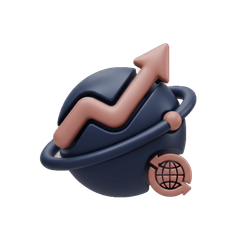
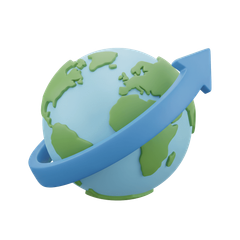
Switch style1 to vivid saturated colors, ban black, cap at 2 objects
Style 1's default color instruction said 'muted, sophisticated, avoid
bright/saturated' which directly contradicted style 2's vivid-color
rule and produced washed-out results (found via a user-supplied globe
reference that wanted bright sky-blue/green, not the dusty/muted tones
we were generating). Flipped the language to require vivid saturation
like style 2 already does, banned black/charcoal tones per explicit
request, and capped object count at 2 (primary + one accent) in both
style1 and style2 prompts. Regenerated and re-cached the stock library
asset with the corrected colors.

diff --git a/src/lib/image-style-patterns.ts b/src/lib/image-style-patterns.ts
@@ -28,9 +28,9 @@ function materialGlossy(): string {
 // brandColor가 없으면 기존의 톤 다운된 프리미엄 팔레트 지시를 그대로 쓴다.
 function colorInstruction(brandColor?: string): string {
   if (brandColor) {
-    return `The dominant body color must closely match the brand color ${brandColor}. Add 1-2 additional harmonious accent colors (a darker/lighter shade of ${brandColor}, or a neutral like soft charcoal or off-white) for secondary or functional parts — do not render the entire object in ${brandColor} alone, different parts must still be distinguishable by color. Keep transitions smooth and avoid harsh clashing.`;
+    return `The dominant body color must closely match the brand color ${brandColor}. Add 1-2 additional harmonious accent colors (a brighter/lighter shade of ${brandColor}, or a soft off-white) for secondary or functional parts — do not render the entire object in ${brandColor} alone, different parts must still be distinguishable by color. Colors must be highly saturated and vivid, never muted, dusty, or pastel. Never use black, near-black, or charcoal/graphite tones anywhere on the object. Keep transitions smooth and avoid harsh clashing.`;
   }
-  return `The color palette must combine 2-3 distinct, harmonious colors across the object's parts — a dominant refined color for the main body, and a clearly different accent color for secondary or functional parts (e.g. a dark neutral tone for wheels, joints, hardware, or mechanical details, a soft light tone for glass/window-like surfaces). Do not render the entire object in a single monochrome hue — different parts must be distinguishable by color, not only by shading. Use sophisticated, slightly muted, premium tones (e.g. soft navy, dusty teal, warm sand, muted rose, deep charcoal) — avoid bright, highly saturated, candy-like, or overly playful primary colors. Colors should feel modern and brand-appropriate for a fintech product, with smooth transitions and no harsh clashing.`;
+  return `The color palette must combine 2-3 distinct, harmonious colors across the object's parts — a dominant vivid color for the main body, and a clearly different accent color for secondary or functional parts (e.g. a bright complementary tone for wheels, joints, hardware, or mechanical details, a soft light tone for glass/window-like surfaces). Do not render the entire object in a single monochrome hue — different parts must be distinguishable by color, not only by shading. Colors must be highly saturated, bright, and vivid (e.g. bright sky blue, vivid green, bold coral, sunny yellow) — never muted, dusty, pastel, or desaturated, and never use black, near-black, or charcoal/graphite tones anywhere on the object. Colors should feel modern, bold, and brand-appropriate for a fintech product, with smooth transitions and no harsh clashing.`;
 }
 
 // 스타일 1: object별로 바뀌는 부분(Subject, Geometry)과 고정인 부분(Icon Style, Lighting,
@@ -38,7 +38,7 @@ function colorInstruction(brandColor?: string): string {
 // 명사("umbrella")뿐 아니라 수식어가 붙은 구("a broken car")도 그대로 들어갈 수 있다.
 function style1Basic3d(object: string, material: IconMaterial, brandColor?: string): string {
   const materialBlock = material === 'glossy' ? materialGlossy() : materialClay();
-  return `A premium 3D icon, presented as a single, unified 3D object that represents ${object}. This object abstracts the essence of its subject into a cohesive volumetric form.
+  return `A premium 3D icon, presented as a single, unified 3D object that represents ${object}. This object abstracts the essence of its subject into a cohesive volumetric form. Depict at most two objects total (a primary object plus at most one small secondary/accent object) — never combine three or more separate, distinct objects into the same icon.
 The icon style is a modern 3D icon, with cohesive volumetric 3D, friendly proportions, a simple silhouette, consistent volumetric form, high visual weight, and a single, integrated construction without external background elements, all with slightly rounded edges and minimal industrial design.
 ${colorInstruction(brandColor)}
 The geometry is a single, prominent, rounded, and organically shaped 3D mass that abstracts the core elements of ${object} into one continuous, simplified form. Its shape should be clearly recognizable as ${object}, with implied details seamlessly integrated into the solid, rounded form, not as intricate or sharp elements. Every feature normally expected when recognizing this specific object — whether functional (e.g. wheels on a vehicle, a handle on a tool) or purely iconic/decorative (e.g. eyes, ears, or a nose on an animal-shaped object) — must be present and keep its real-world silhouette, position, and proportion so it reads correctly, even while staying simplified and rounded. Do not omit small but expected details just because they are non-functional. All elements have soft edges, continuous curvature, and large corner radii.

diff --git a/prompt-system/SHAPE_GRAMMAR.md b/prompt-system/SHAPE_GRAMMAR.md
@@ -1,6 +1,6 @@
 # Shape Grammar
 
-Use only rounded rectangles, rounded circles, capsules, soft curves, uniform corner radius. Maximum two visible planes: front face, thin side face. Never create thick extrusion, never simulate real volume. Depth should feel like stacked paper.
+Use only rounded rectangles, rounded circles, capsules, soft curves, uniform corner radius. Maximum two visible planes: front face, thin side face. Never create thick extrusion, never simulate real volume. Depth should feel like stacked paper. Depict at most two objects per illustration (a primary object plus at most one small secondary/accent object) — never combine three or more separate, distinct objects into the same icon.
 
 # Depth System
 
